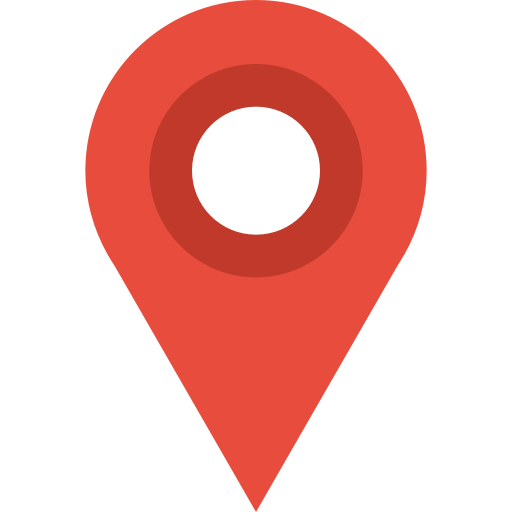
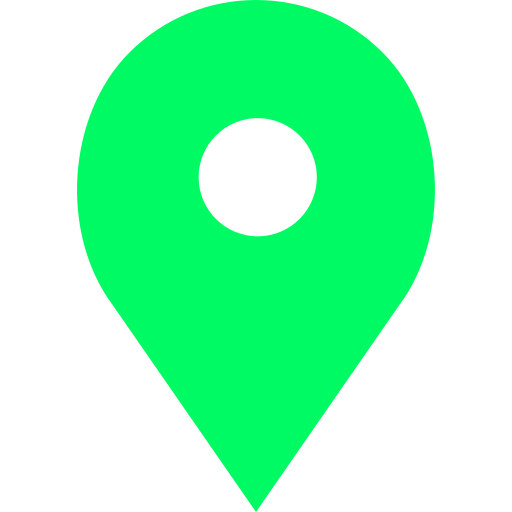
finished MyPostWidget Styling

diff --git a/client/src/scenes/widgets/MyPostWidget.jsx b/client/src/scenes/widgets/MyPostWidget.jsx
@@ -1,4 +1,17 @@
 import SquareIcon from '@mui/icons-material/Square';
+import CircleIcon from '@mui/icons-material/Circle';
+import ChairOutlinedIcon from '@mui/icons-material/ChairOutlined';
+import WbIncandescentOutlinedIcon from '@mui/icons-material/WbIncandescentOutlined';
+import WcOutlinedIcon from '@mui/icons-material/WcOutlined';
+import CheckroomOutlinedIcon from '@mui/icons-material/CheckroomOutlined';
+import ShoppingCartOutlinedIcon from '@mui/icons-material/ShoppingCartOutlined';
+import DiningOutlinedIcon from '@mui/icons-material/DiningOutlined';
+import WifiOutlinedIcon from '@mui/icons-material/WifiOutlined';
+import LocalHospitalIcon from '@mui/icons-material/LocalHospital';
+import FitnessCenterOutlinedIcon from '@mui/icons-material/FitnessCenterOutlined';
+import EventAvailableOutlinedIcon from '@mui/icons-material/EventAvailableOutlined';
+import ScheduleOutlinedIcon from '@mui/icons-material/ScheduleOutlined';
+import { LocalParkingOutlined, ShowerOutlined } from "@mui/icons-material";
 import {
   Box,
   Divider,
@@ -13,7 +26,8 @@ import {
   FormControl,
   InputLabel,
   TextField,
-  Snackbar
+  Snackbar,
+  Tooltip
 } from "@mui/material";
 import FlexBetween from "components/FlexBetween";
 import UserImage from "components/UserImage";
@@ -31,10 +45,9 @@ import {
 } from "react-leaflet";
 import L from "leaflet";
 import "leaflet/dist/leaflet.css";
-import { CenterFocusStrong } from '@mui/icons-material';
 
 const markerIcon = new L.Icon({
-  iconUrl: ("../assets/location.png"),
+  iconUrl: ("../assets/marker.png"),
   iconSize: [40, 40],
   iconAnchor: [17, 46], //[left/right, top/bottom]
   popupAnchor: [0, -46], //[left/right, top/bottom]
@@ -225,43 +238,83 @@ const MyPostWidget = ({ picturePath }) => {
                     alignItems: "center",
                     flexDirection: "column",
                   }}>
-              <Typography variant="subtitle2">
-                <strong>Ground type:</strong>{" "}
+              <Typography variant="subtitle1" sx={{
+                    display: "flex",
+                    justifyContent: "center",
+                    alignItems: "center",
+                  }}>
+                <strong>Ground type:</strong>
                 {selectedCourtInfo.ground === "grass" && (
-                  <>
-                    <SquareIcon sx={{ color: "green" }} />
-                    {" grass"}
-                  </>
+                  <Tooltip title="Grass court" arrow placement='top'>
+                    <CircleIcon sx={{ color: "green", marginLeft: "0.5rem"}} />
+                  </Tooltip>
                 )}
                 {selectedCourtInfo.ground === "clay" && (
-                  <>
-                    <SquareIcon sx={{ color: "orange" }} />
-                    {" clay"}
-                  </>
+                  <Tooltip title="Clay court" arrow placement='top'>
+                    <CircleIcon sx={{ color: "orange", marginLeft: "0.5rem" }} />
+                  </Tooltip>
                 )}
                 {selectedCourtInfo.ground === "hard" && (
-                  <>
-                    <SquareIcon sx={{ color: "blue" }} />
-                    {" hard"}
-                  </>
+                  <Tooltip title="Hard court" arrow placement='top'>
+                    <CircleIcon sx={{ color: "blue", marginLeft: "0.5rem" }} />
+                  </Tooltip>
                 )}
                 {!selectedCourtInfo.ground && " N/A"}
               </Typography>
-              <Typography>
-                <strong>Facilities:</strong>{" "}
-                {selectedCourtInfo.facilities && selectedCourtInfo.facilities.length > 0
-                  ? selectedCourtInfo.facilities.join(", ")
-                  : " N/A"}
-              </Typography>
+
+              {selectedCourtInfo.facilities && selectedCourtInfo.facilities.length > 0 ? (
+                <Typography variant="subtitle1" sx={{
+                    display: "flex",
+                    // justifyContent: "space-between",
+                    alignItems: "center",
+                  }}>
+                  <strong>Facilities:</strong>{" "}
+                  {selectedCourtInfo.facilities.map((facility) => (
+                    <Tooltip key={facility} title={facility} arrow placement='top'>
+                      {facility === "parking" ? (
+                        <LocalParkingOutlined sx={{ marginRight: "0.5rem" }} />
+                      ) : facility === "shower" ? (
+                        <ShowerOutlined sx={{ marginRight: "0.5rem" }} />
+                      ) : facility === "seats" ? (
+                        <ChairOutlinedIcon sx={{ marginRight: "0.5rem" }} />
+                      ) : facility === "light" ? (
+                        <WbIncandescentOutlinedIcon sx={{ marginRight: "0.5rem" }} />
+                      ) : facility === "WC" ? (
+                        <WcOutlinedIcon sx={{ marginRight: "0.5rem" }} />
+                      ) : facility === "locker" ? (
+                        <CheckroomOutlinedIcon sx={{ marginRight: "0.5rem" }} />
+                      ) : facility === "shop" ? (
+                        <ShoppingCartOutlinedIcon sx={{ marginRight: "0.5rem" }} />
+                      ) : facility === "cafe" ? (
+                        <DiningOutlinedIcon sx={{ marginRight: "0.5rem" }} />
+                      ) : facility === "wifi" ? (
+                        <WifiOutlinedIcon sx={{ marginRight: "0.5rem" }} />
+                      ) : facility === "doctor" ? (
+                        <LocalHospitalIcon sx={{ marginRight: "0.5rem" }} />
+                      ) : facility === "gym" ? (
+                        <FitnessCenterOutlinedIcon sx={{ marginRight: "0.5rem" }} />
+                      ) : (
+                        // Default case if facility is not parking or shower
+                        `${facility}, `
+                      )}
+                    </Tooltip>
+                  ))}
+                </Typography>
+              ) : (
+                <Typography>
+                  <strong>Facilities:</strong> N/A
+                </Typography>
+              )}
+
               <Typography>
                 <strong>Working hours:</strong>{" "}
                 {selectedCourtInfo.startTime && selectedCourtInfo.endTime
-                  ? `from ${selectedCourtInfo.startTime} till ${selectedCourtInfo.endTime}`
+                  ? ` ${selectedCourtInfo.startTime} -> ${selectedCourtInfo.endTime}`
                   : " N/A"}
               </Typography>
             </Box>
           ) : (
-            <Typography variant="subtitle2">info about court will be here</Typography>
+            <Typography variant="subtitle1">info about court will be here</Typography>
           )}
 
 

diff --git a/client/src/icons.js b/client/src/icons.js
@@ -2,7 +2,8 @@
 import EventSeatOutlinedIcon from '@mui/icons-material/EventSeatOutlined';
 import ChairOutlinedIcon from '@mui/icons-material/ChairOutlined';
 
-//lighting
+
+//light
 import WbIncandescentOutlinedIcon from '@mui/icons-material/WbIncandescentOutlined';
 
 //restrooms
@@ -10,6 +11,9 @@ import WcOutlinedIcon from '@mui/icons-material/WcOutlined';
 
 //locker room
 import CheckroomOutlinedIcon from '@mui/icons-material/CheckroomOutlined';
+
+//shower
+import ShowerOutlinedIcon from '@mui/icons-material/ShowerOutlined';
 
 //shop
 import ShoppingCartOutlinedIcon from '@mui/icons-material/ShoppingCartOutlined';
@@ -25,6 +29,9 @@ import WifiOutlinedIcon from '@mui/icons-material/WifiOutlined';
 
 //doctor
 import LocalHospitalIcon from '@mui/icons-material/LocalHospital';
+
+//gym
+import FitnessCenterOutlinedIcon from '@mui/icons-material/FitnessCenterOutlined';
 
 //working days
 import EventAvailableOutlinedIcon from '@mui/icons-material/EventAvailableOutlined';
